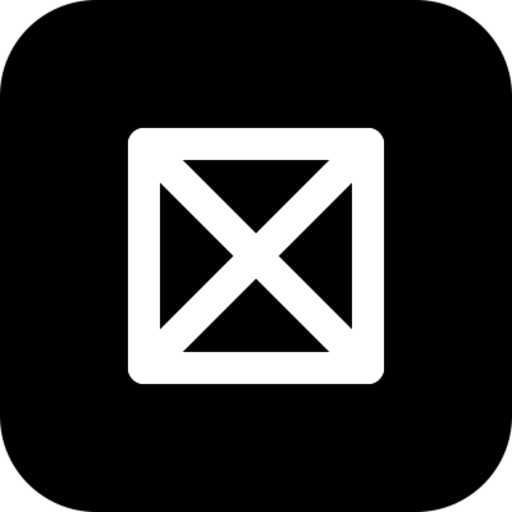
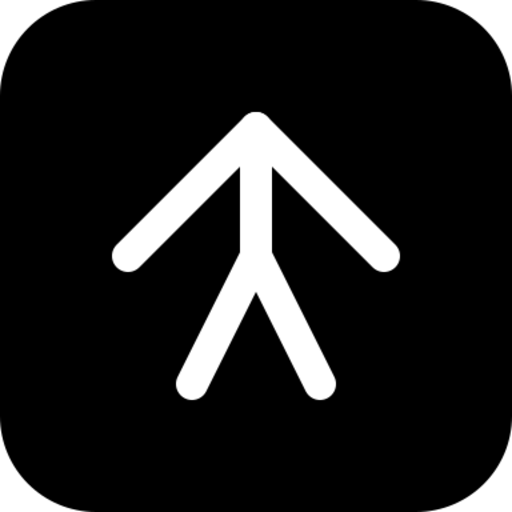
Release Bliss Tactile Symbols web app 35
The app icon is now the Blissymbol for "father", white on black. The
landing page's mark follows it, as it always shows the Symbols glyph.

Changed region(s): [[0.2188, 0.2188, 0.7812, 0.7812]]

diff --git a/symbols/index.html b/symbols/index.html
@@ -67,7 +67,7 @@
     // SET of symbols from an existing one. Symbols only — Tiles' concepts carry
     // values unique to each concept, so a shared style has nothing to give it.
     stylesEnabled:    true,
-    appRelease:       34,
+    appRelease:       35,
     appRepo:          'Volksswitch/bts-web-app',
     appDir:           'symbols',
     scadRepo:         'Volksswitch/bliss-tactile-symbols',
@@ -192,6 +192,9 @@
   ],
   "34": [
     "Updated symbol designer file (v4). This update to the web app is necessary to support an upgrade to the symbol designer. Open your folder and the app will offer you the new file."
+  ],
+  "35": [
+    "A new app icon. The app now wears the Blissymbol for \"father\", still white on black."
   ]
 };
   // @@RELEASE_NOTES_END@@

diff --git a/symbols/sw.js b/symbols/sw.js
@@ -5,7 +5,7 @@
 // handler purges old caches so clients get the new version on next load. It only
 // ever goes UP, and moves only at release (in lockstep with this app's
 // APP_RELEASE and its latest_app_version.json). See RELEASING.md.
-const CACHE_NAME = 'bts-symbols-v28';
+const CACHE_NAME = 'bts-symbols-v29';
 
 // This app's shell, served over HTTP from this origin (GitHub Pages). The shared
 // engine + vendored deps live above /symbols/, reached with ../ . The user's

diff --git a/symbols/CHANGELOG.md b/symbols/CHANGELOG.md
@@ -7,6 +7,10 @@ User-facing changes, newest first. Each bullet is written the way a user reads i
 
 ## Unreleased (next release)
 
+## Release 35
+
+- **A new app icon.** The app now wears the Blissymbol for "father", still white on black.
+
 ## Release 34
 
 - **Updated symbol designer file (v4).** This update to the web app is necessary to support an upgrade to the symbol designer. Open your folder and the app will offer you the new file.
